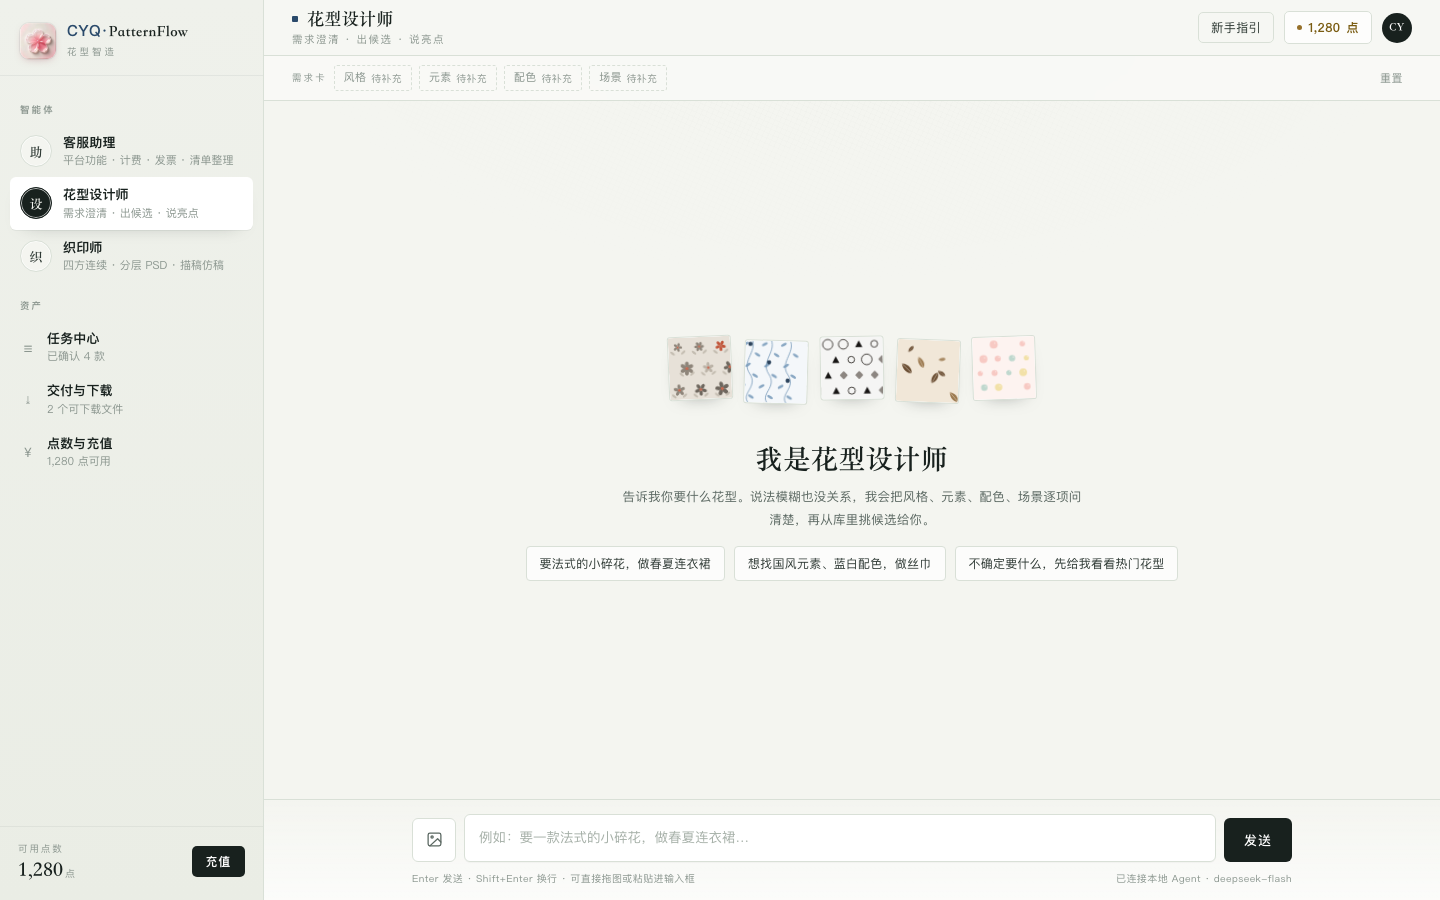
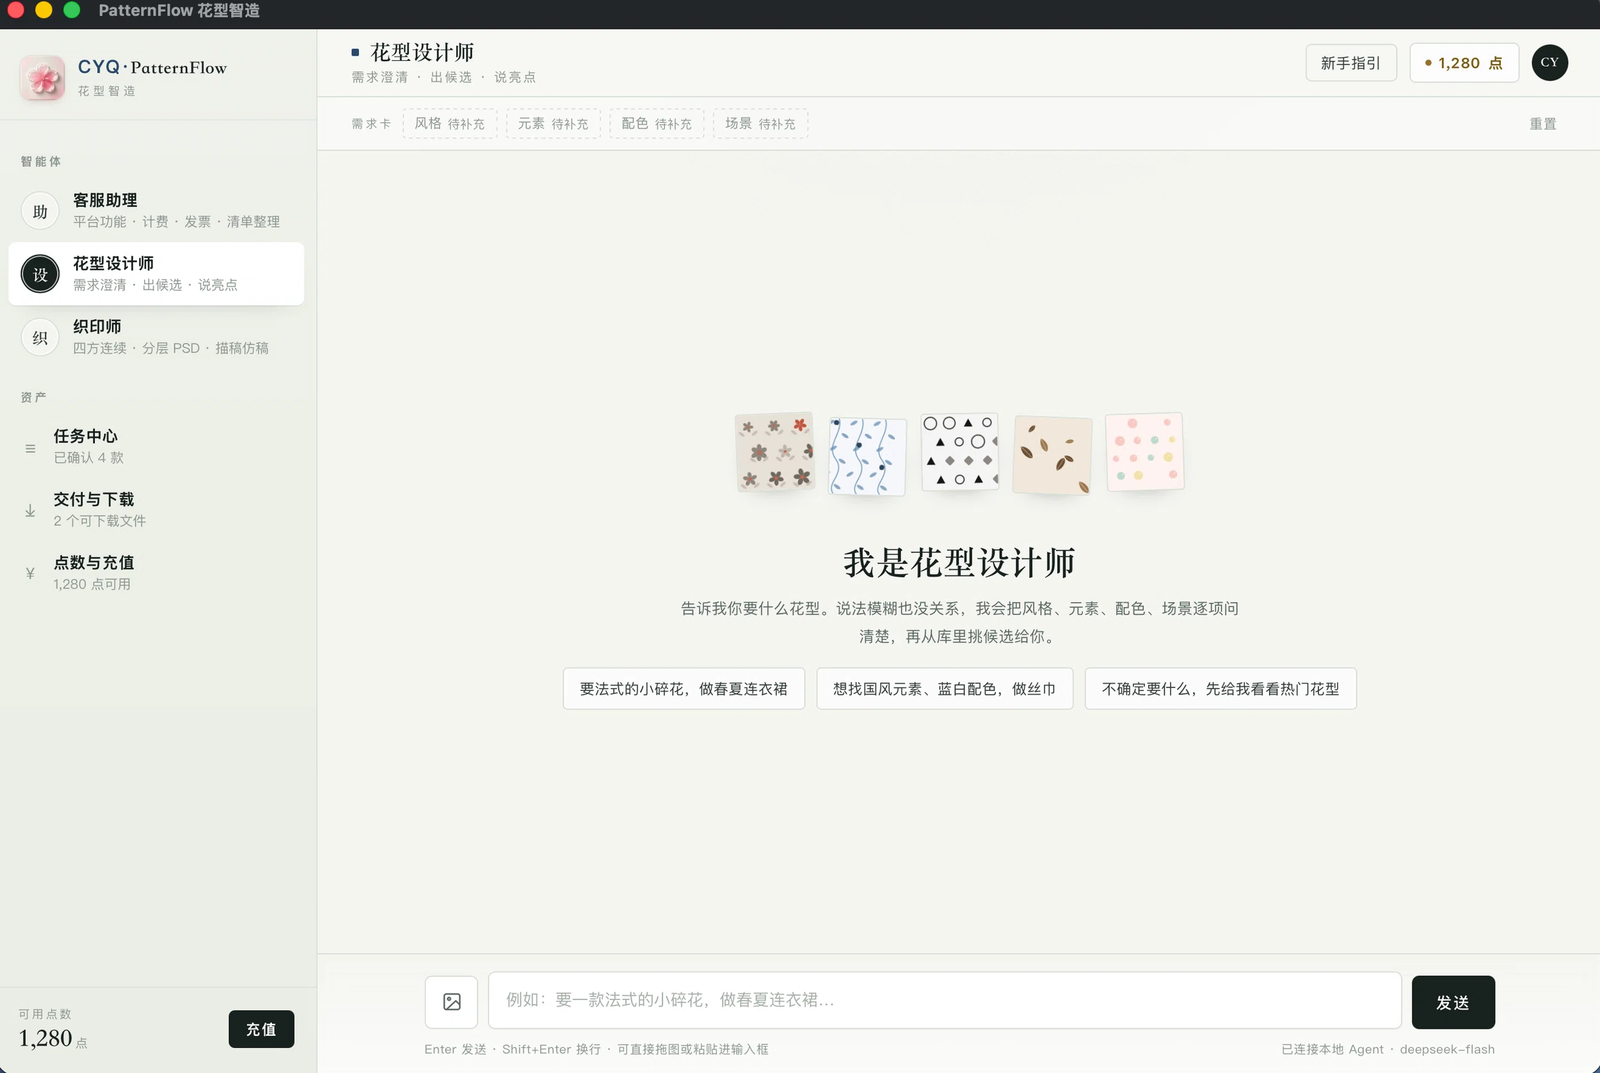
docs: README 首图换成桌面端实拍截图
去掉下方重复的桌面截图，首屏直接用带窗口的原生端界面。

diff --git a/README.md b/README.md
@@ -14,7 +14,7 @@
 
 </div>
 
-![PatternFlow 界面](docs/screenshots/01-home.png)
+![PatternFlow 花型智造 · macOS 桌面端](docs/screenshots/01-home.png)
 
 ---
 
@@ -210,7 +210,6 @@ Node 24 脚本 + Python 3.13（uv/PSD 工具链）+ 图像生成 API，负责：
 - 支持原生文件选择面板；退出只停自己拉起的进程；
 - 构建、安装和截图自检见 [桌面端/README.md](桌面端/README.md)。
 
-![桌面端](docs/screenshots/02-desktop.png)
 
 ## 测试
 
